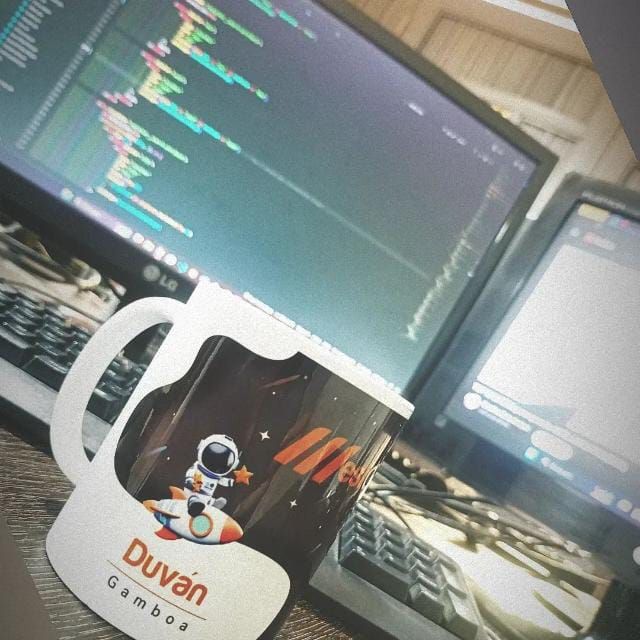
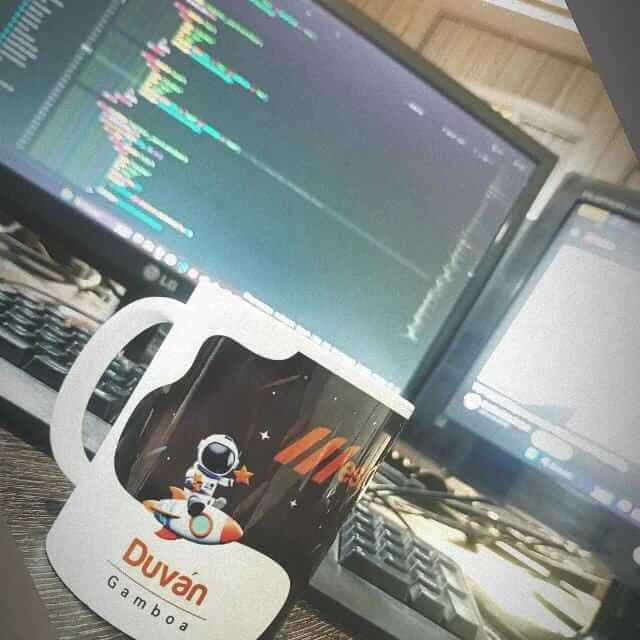
Actualizar CV, metadatos y configuración del proyecto: nuevas versiones de CV en varios idiomas, mejorar perfil e imagen OG

Changed region(s): [[0.4375, 0.9688, 0.5312, 1.0], [0.3125, 0.7188, 0.3438, 0.75], [0.25, 0.9062, 0.2812, 0.9375]]

diff --git a/public/cv-nuevo/cv-es.html b/public/cv-nuevo/cv-es.html
@@ -126,14 +126,27 @@
     }
 
     .btn-pdf {
-      margin-top: 8px;
-      padding: 7px 14px;
+      position: fixed;
+      bottom: 28px;
+      right: 28px;
+      width: 52px;
+      height: 52px;
       background: var(--accent);
       color: #fff;
       border: 0;
-      border-radius: 4px;
-      font-size: 12px;
+      border-radius: 50%;
+      display: flex;
+      align-items: center;
+      justify-content: center;
       cursor: pointer;
+      box-shadow: 0 4px 14px rgba(37,99,235,0.45);
+      transition: background 0.2s, transform 0.15s;
+      z-index: 999;
+    }
+
+    .btn-pdf:hover {
+      background: #1d4ed8;
+      transform: scale(1.08);
     }
 
     .summary {
@@ -270,9 +283,12 @@
         <div><strong>GitHub:</strong> <a href="https://github.com/lokogam">lokogam</a></div>
         <div><strong>Portafolio:</strong> <a href="https://bit.ly/Duvan-Gamboa">bit.ly/Duvan-Gamboa</a></div>
         <div><strong>Ubicación:</strong> Colombia</div>
-        <button class="btn-pdf no-imprimir" onclick="window.print()">Guardar como PDF</button>
       </div>
     </div>
+
+    <button class="btn-pdf no-imprimir" onclick="window.print()" title="Guardar como PDF">
+      <svg xmlns="http://www.w3.org/2000/svg" width="22" height="22" viewBox="0 0 24 24" fill="none" stroke="currentColor" stroke-width="2.2" stroke-linecap="round" stroke-linejoin="round"><path d="M21 15v4a2 2 0 0 1-2 2H5a2 2 0 0 1-2-2v-4"/><polyline points="7 10 12 15 17 10"/><line x1="12" y1="15" x2="12" y2="3"/></svg>
+    </button>
 
     <div class="summary">
       Tecnólogo en Desarrollo de Software con 4+ años de experiencia en Laravel, React, Vue, Node.js, PHP, MySQL y Docker. Especializado en APIs RESTful, optimización de sistemas, automatización de procesos y soluciones cloud. He participado en el desarrollo, mantenimiento y mejora de plataformas web, educativas y administrativas, aportando en rendimiento, escalabilidad, integraciones y soporte productivo. Me adapto con rapidez a nuevos entornos, colaboro bien con equipos multidisciplinarios y mantengo enfoque en código limpio, buenas prácticas y entrega de soluciones orientadas al negocio. Disponible para remoto, híbrido, presencial o freelance.

diff --git a/public/cv-nuevo/cv-en.html b/public/cv-nuevo/cv-en.html
@@ -126,14 +126,27 @@
     }
 
     .btn-pdf {
-      margin-top: 8px;
-      padding: 7px 14px;
+      position: fixed;
+      bottom: 28px;
+      right: 28px;
+      width: 52px;
+      height: 52px;
       background: var(--accent);
       color: #fff;
       border: 0;
-      border-radius: 4px;
-      font-size: 12px;
+      border-radius: 50%;
+      display: flex;
+      align-items: center;
+      justify-content: center;
       cursor: pointer;
+      box-shadow: 0 4px 14px rgba(37,99,235,0.45);
+      transition: background 0.2s, transform 0.15s;
+      z-index: 999;
+    }
+
+    .btn-pdf:hover {
+      background: #1d4ed8;
+      transform: scale(1.08);
     }
 
     .summary {
@@ -270,9 +283,12 @@
         <div><strong>GitHub:</strong> <a href="https://github.com/lokogam">lokogam</a></div>
         <div><strong>Portfolio:</strong> <a href="https://bit.ly/Duvan-Gamboa">bit.ly/Duvan-Gamboa</a></div>
         <div><strong>Location:</strong> Colombia</div>
-        <button class="btn-pdf no-print" onclick="window.print()">Save as PDF</button>
       </div>
     </div>
+
+    <button class="btn-pdf no-print" onclick="window.print()" title="Save as PDF">
+      <svg xmlns="http://www.w3.org/2000/svg" width="22" height="22" viewBox="0 0 24 24" fill="none" stroke="currentColor" stroke-width="2.2" stroke-linecap="round" stroke-linejoin="round"><path d="M21 15v4a2 2 0 0 1-2 2H5a2 2 0 0 1-2-2v-4"/><polyline points="7 10 12 15 17 10"/><line x1="12" y1="15" x2="12" y2="3"/></svg>
+    </button>
 
     <div class="summary">
       Software Technologist with 4+ years of experience in Laravel, React, Vue, Node.js, PHP, MySQL, and Docker. Focused on REST APIs, systems optimization, process automation, and cloud-enabled solutions. I have contributed to the development, maintenance, and improvement of web, educational, and administrative platforms, delivering gains in performance, scalability, integrations, and production support. I adapt quickly to new environments, collaborate effectively with multidisciplinary teams, and stay focused on clean code, best practices, and business-oriented solutions. Available for remote, hybrid, on-site, or freelance work.

diff --git a/index.html b/index.html
@@ -38,10 +38,6 @@
     <meta name="twitter:description" content="Explora mis proyectos con Laravel, React y Vue.js. Desarrollo web profesional y soluciones personalizadas." />
     <meta name="twitter:image" content="https://lokogam.github.io/Duvan-Gamboa/og-image.jpg" />
 
-    <!-- Preconexión -->
-    <link rel="preconnect" href="https://fonts.googleapis.com" />
-    <link rel="preconnect" href="https://fonts.gstatic.com" crossorigin />
-
     <!-- Preload -->
     <!-- <link rel="preload" as="image" href="/hero-banner.webp" /> -->
 
